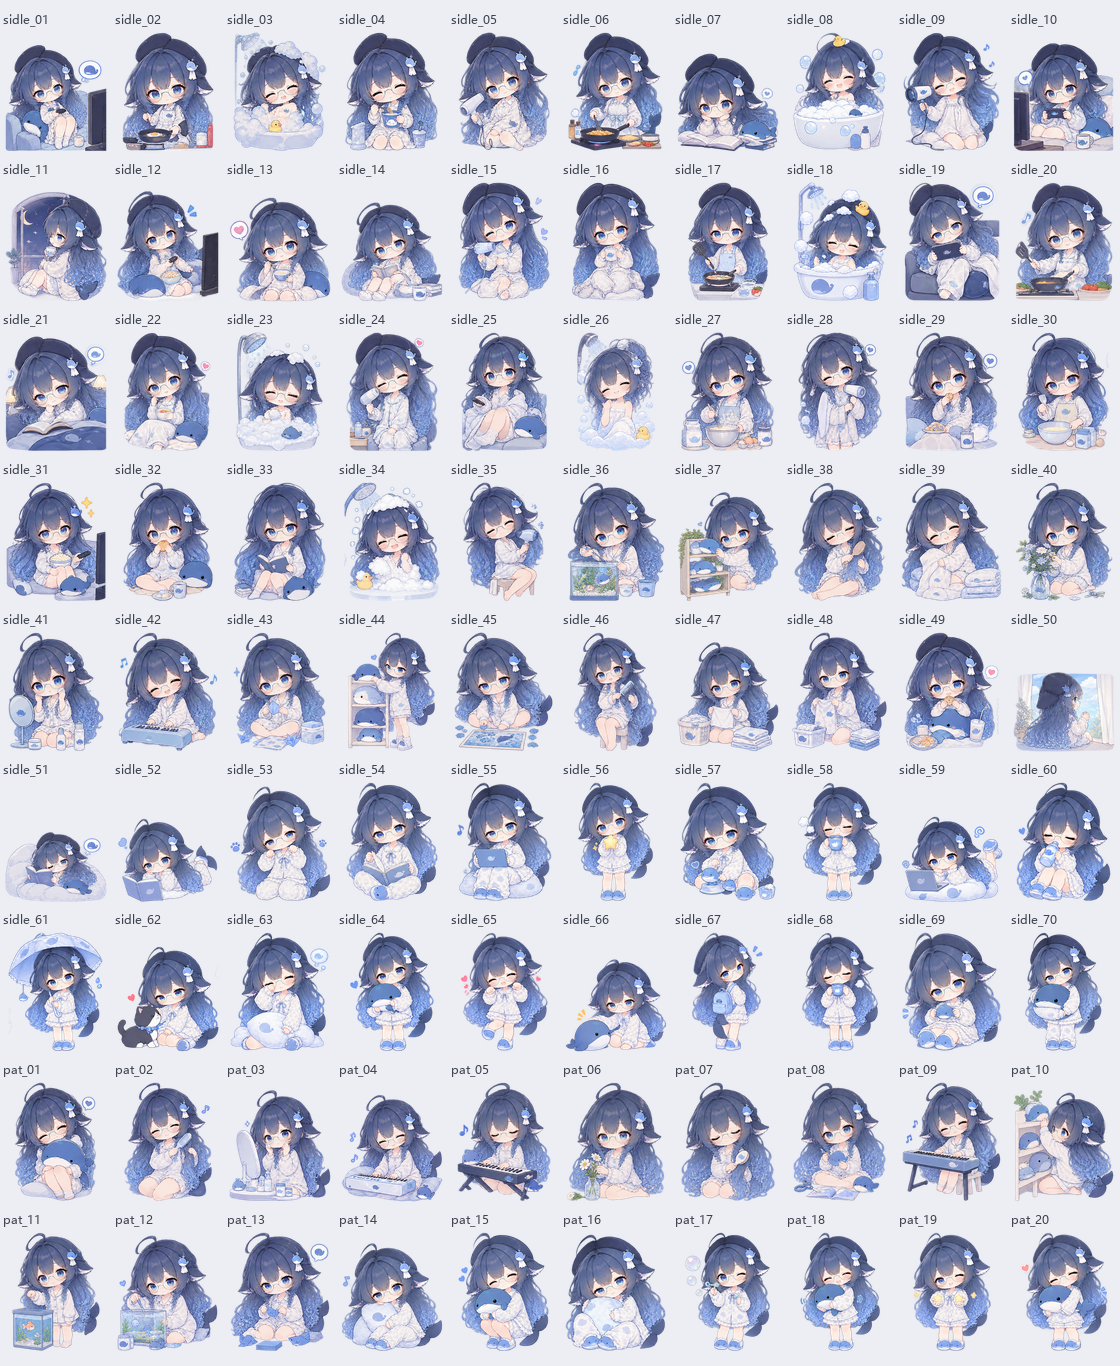
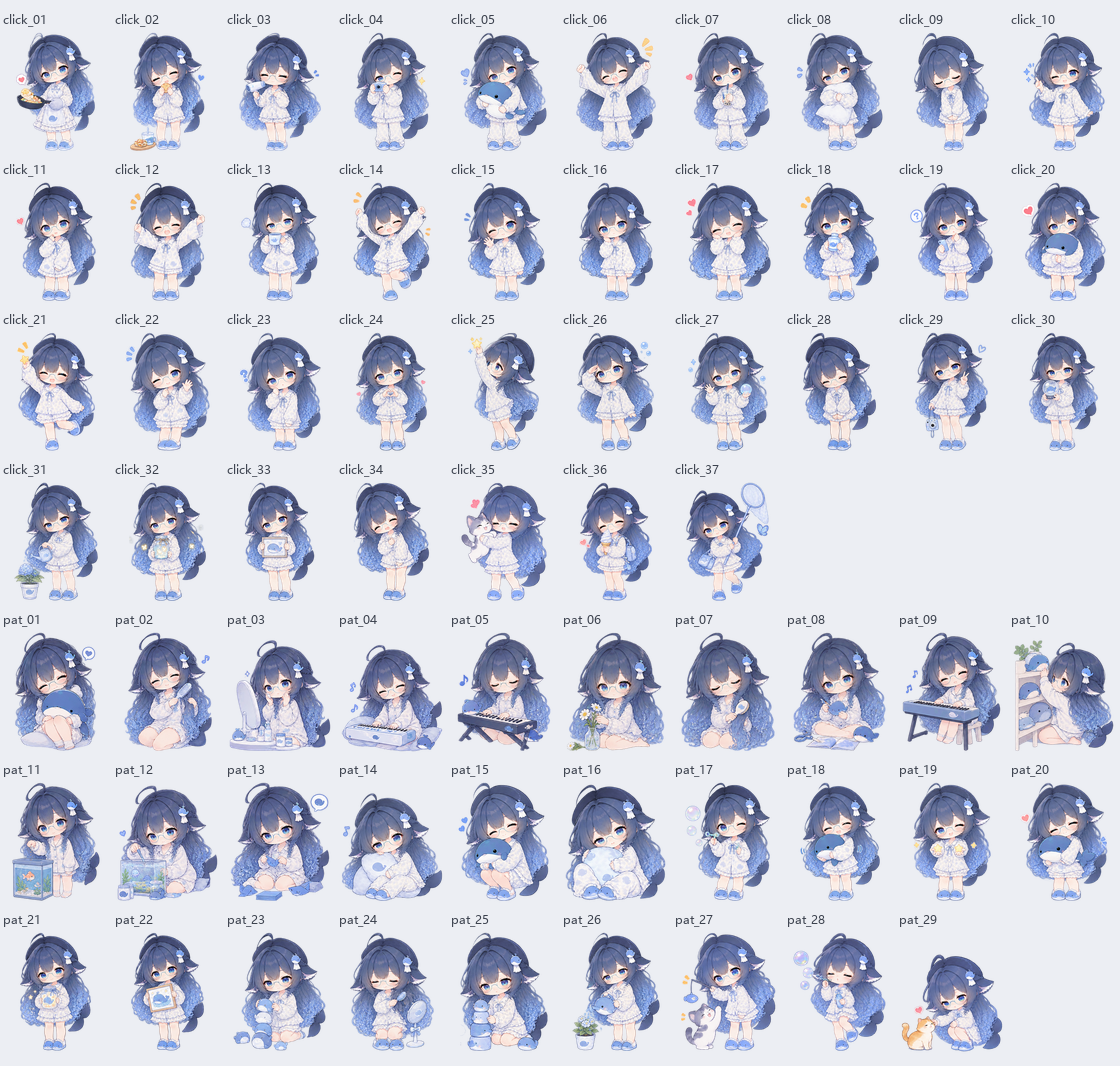
第109轮落地: 高质新素材 32 帧并入 V6 (173 → 205 帧)
· 浅浅猫全选 32 帧(白猫互动 N01/N02、春日 N03、雨天户外 N04) → 追加进 pet_v6:
  idle +2 / sleep +2 / drag +1 / click +3 / sidle +21 / pat +3(wake 未选)。
· V6 = idle7 / sleep9 / wake13 / drag7 / click37 / sidle103 / pat29 = **205 帧**,
  idle_01 仍是 K15_02(主待机不变); 帧高统一 360(本次调整 2 帧)。
· 回归 **552 全绿**(V6 断言 173 → 205); 桌宠重启 pid 29036,
  状态确认 theme=v6 frames=205 (build v9.6-bubble)。
· README: V6 节更新为 205 帧, 总览图重出三张
  (① 待机/睡觉/睡醒/拖拽 36 帧 ② 点击/摸摸头 66 帧 ③ 特殊待机 103 帧)。
· 推送节奏按她新要求: **切分素材/出网页只在本地, 落地时才推送**。

diff --git a/test_switch_race.py b/test_switch_race.py
@@ -754,12 +754,13 @@ check("PET_THEMES 含 v6 (睡衣日常) 且共 6 档",
       str(list(ca.PET_THEMES.keys())))
 _fr6 = ca.load_pet_frames("v6")
 # 2026-10-30 第103轮: 追加新待机批次(L01~L07)53 帧 → 144
-# 2026-10-31 第104轮: 再追加 4 张新素材批次(M01~M04)勾选的 29 帧 → 共 173 帧
-check("V6 素材可加载: idle5 / sleep7 / wake13 / drag6 / click34 / sidle82 / pat26 (共 173)",
+# 2026-10-31 第104轮: 追加 4 张新素材批次(M01~M04)勾选的 29 帧 → 173
+# 2026-11-01 第109轮: 再追加 4 张高质新素材(N01~N04)勾选的 32 帧 → 共 205 帧
+check("V6 素材可加载: idle7 / sleep9 / wake13 / drag7 / click37 / sidle103 / pat29 (共 205)",
       _fr6 is not None
       and [len(_fr6.get(k, [])) for k in ("idle", "sleep", "wake", "drag", "click", "sidle", "pat")]
-      == [5, 7, 13, 6, 34, 82, 26]
-      and sum(len(v) for v in _fr6.values()) == 173,
+      == [7, 9, 13, 7, 37, 103, 29]
+      and sum(len(v) for v in _fr6.values()) == 205,
       str({k: len(v) for k, v in (_fr6 or {}).items()}))
 check("V6 全库帧高统一(360, 与 V5 同基准, 播放不跳动)",
       len({im.height() for v in (_fr6 or {}).values() for im in v}) == 1,

diff --git a/README.md b/README.md
@@ -245,17 +245,21 @@ V3 / V4 为**全帧展示**，V5 为每场景抽样 8 帧的概览。
 | `click` 点击互动 | 23 | 单击身体下部 |
 | `pat` 摸摸头 | 19 | 单击顶部 1/3 |
 
-**V6 素材（`pet_v6`，睡衣日常）**：2026-10-30 新建，勾两批共 **144 帧**
-—— idle5 / sleep7 / wake13 / drag6 / click23 / sidle70 / pat20。
+**V6 素材（`pet_v6`，睡衣日常）**：2026-10-30 新建，陆续并入四批勾选共 **205 帧**
+—— idle7 / sleep9 / wake13 / drag7 / click37 / sidle103 / pat29。
 主待机帧 `idle_01 = K15_02`（她指定）。全库帧高统一 360px。
 
-**V6 — ① 待机 5 / 睡觉 7 / 睡醒 13 / 拖拽 6 / 点击 23（54 帧）**
+**V6 — ① 待机 7 / 睡觉 9 / 睡醒 13 / 拖拽 7（36 帧）**
 
 ![V6 素材 1](docs/assets/previews/pet_v6_sheet_1.png)
 
-**V6 — ② 特殊待机 70 / 摸摸头 20（90 帧）**
+**V6 — ② 点击 37 / 摸摸头 29（66 帧）**
 
 ![V6 素材 2](docs/assets/previews/pet_v6_sheet_2.png)
+
+**V6 — ③ 特殊待机 103（103 帧）**
+
+![V6 素材 3](docs/assets/previews/pet_v6_sheet_3.png)
 
 **V5 素材（`pet_v5`，蓝发鲸鱼少女）**：2026-10-26 并入浅浅猫勾选的 140 帧后共 **149 帧**
 —— idle15 / click33 / sleep22 / wake15 / drag6 / **sidle48** / **pat10**
